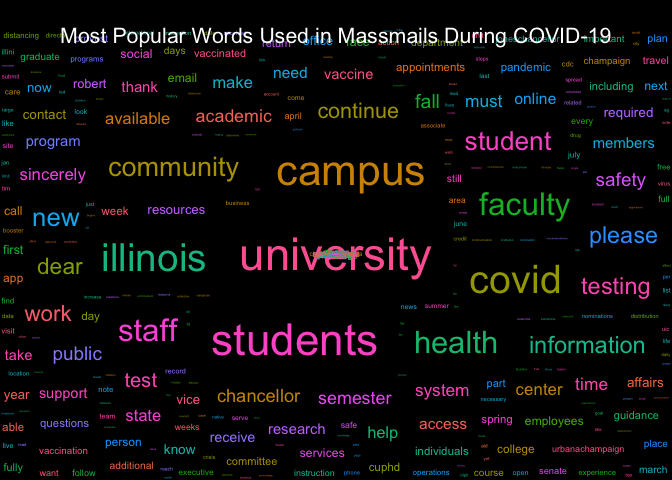
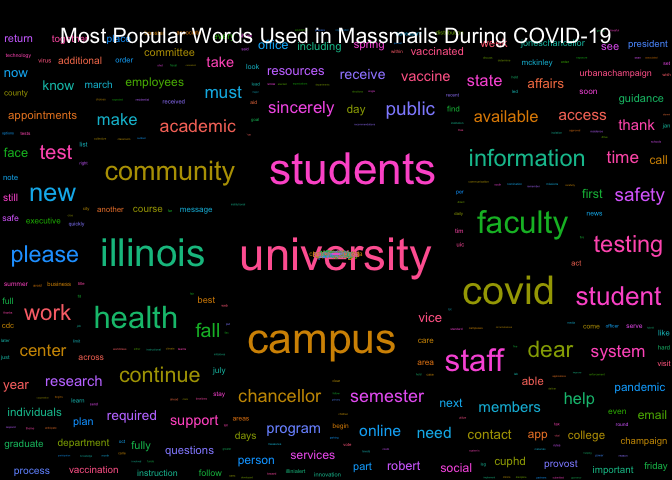
Re-build README.Rmd and Graphs

diff --git a/README.md b/README.md
@@ -17,7 +17,7 @@ The archive may be viewed here:
 
 <https://massmail.illinois.edu/massmailArchive>
 
-Data has **828** observations and **7** variables:
+Data has **830** observations and **7** variables:
 
   - `datetime`: Date and time when the email was sent in the form of
     `YYYY-MM-DD HMS` with either CDT or CST.
@@ -208,18 +208,18 @@ head(most_popular_words, 10) %>%
   knitr::kable(row.names = FALSE)
 ```
 
-| word       | freq |
-| :--------- | ---: |
-| university | 1538 |
-| students   | 1354 |
-| campus     | 1259 |
-| illinois   | 1005 |
-| covid      |  976 |
-| faculty    |  805 |
-| community  |  779 |
-| health     |  736 |
-| staff      |  657 |
-| student    |  624 |
+| word        | freq |
+| :---------- | ---: |
+| university  | 1548 |
+| students    | 1368 |
+| campus      | 1270 |
+| illinois    | 1009 |
+| covid       |  994 |
+| faculty     |  813 |
+| community   |  784 |
+| health      |  743 |
+| staff       |  665 |
+| information |  627 |
 
 #### Wordcloud
 
